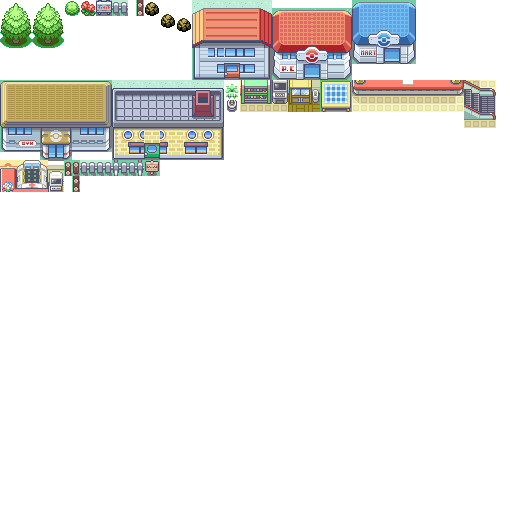
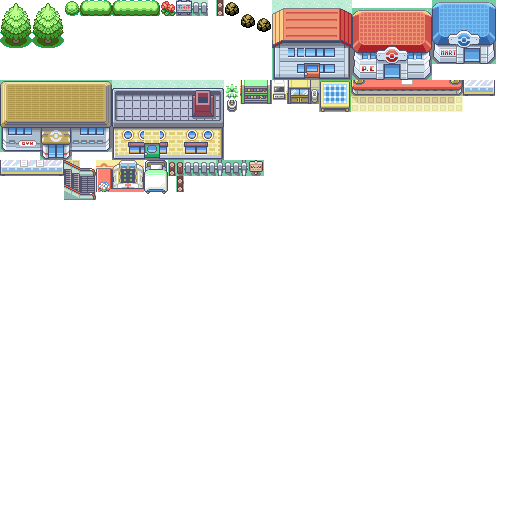
Revisa objetos e organiza vegetação e entradas em todas as regiões

Changed region(s): [[0.1562, 0.0, 0.9688, 0.25], [0.0, 0.3125, 0.5312, 0.4062]]

diff --git a/src/world/composicao-natural.js b/src/world/composicao-natural.js
@@ -1,0 +1,63 @@
+import{TILE,SOLID}from'./tiles.js';
+import{KINDS}from'./objects.js';
+
+// A mesma composição vale para todas as regiões: massas vegetais, acostamentos
+// livres e clareiras conectadas. Nunca reorganiza moradores, itens ou mecanismos.
+const VERDE=new Set([TILE.GRASS,TILE.GRASS2,TILE.TALL,TILE.FLOWERS,TILE.DARK,TILE.GOLD,TILE.SAND,TILE.WETSAND,TILE.CAATINGA,TILE.TALLDRY,TILE.DUNE,TILE.SNOW,TILE.SNOWFIELD,TILE.TALLSNOW,TILE.BASALT,TILE.ASH,TILE.OBSIDIAN]);
+const VIA=new Set([TILE.PATH,TILE.PLAZA,TILE.COURT,TILE.STAIRS,TILE.BRIDGE,TILE.BRIDGEV,TILE.DOCK,TILE.MOSAIC]);
+const NATURAL=/^(tree2?|pine2?|pineT|autumn|bigtree|bigautumn|ipe|paineira|jequitiba|juazeiro|umbu|palm|palmSmall|palmeira|coqueiro|araucaria|mangue|bambu|mandacaru|xiquexique|cactus|cactoBarril|arbustoSeco|pinheiroAlto|pinheiroNevado|arvoreVento|roundbush|cone|moita|moitaNeve|bush|boulder2?|grayrock|stump)$/;
+export function* comporNatureza(S,P,ocupar){
+ if(S.J.temaVisual)return;
+ const W=S.W,H=S.J.outdoorH??S.H,[rx,ry,rw,rh]=P.rect??[0,0,W,H],grupos=new Map(),retirar=new Set();
+ for(const o of[...S.placed,...S.novos]){
+  const K=KINDS[o.kind],x=o.tx??o.x,y=o.ty??o.y;
+  if((o.parte??0)!==P.i||y>=H||o.forest||o.id||o.text||o.to||o.berry||K?.strength||K?.fw>3||K?.door!==undefined||!NATURAL.test(o.kind)||!VERDE.has(S.tiles[x+y*W]))continue;
+  if(x<rx||x>=rx+rw||y<ry||y>=ry+rh)continue;
+  const gx=Math.floor(x/12)*12,gy=Math.floor(y/10)*10,k=gx+':'+gy;
+  if(!grupos.has(k))grupos.set(k,{x:gx,y:gy,objs:[]});grupos.get(k).objs.push(o);retirar.add(o);
+ }
+ const candidatos=new Set([...retirar].flatMap(o=>o.cells??[])),ocupados=new Set();
+ S.placed=S.placed.filter(o=>!retirar.has(o));S.novos=S.novos.filter(o=>!retirar.has(o));
+ S.objects=S.objects.filter(o=>!retirar.has(o));
+ for(const o of[...S.placed,...S.novos])for(const k of o.cells??[])if(candidatos.has(k))ocupados.add(k);
+ for(const k of candidatos)if(!ocupados.has(k))S.block[k]=0;
+ if(S.instalado)for(const o of retirar){o.retiradoCenario=true;(S.retiradosCenario??=new Set()).add(o);}
+ const at=(x,y)=>x<0||y<0||x>=W||y>=H?TILE.VOID:S.tiles[x+y*W];
+ const livre=(x,y,K)=>{
+  if(x<rx||y<ry||x+K.fw>rx+rw||y+K.fh>Math.min(H,ry+rh))return false;
+  for(let j=0;j<K.fh;j++)for(let i=0;i<K.fw;i++){
+   const X=x+i,Y=y+j,k=X+Y*W;
+   if(!VERDE.has(at(X,Y))||SOLID.has(at(X,Y))||S.block[k]||S.nearSpot.has(k))return false;
+   for(let b=-2;b<=2;b++)for(let a=-2;a<=2;a++)if(VIA.has(at(X+a,Y+b))||S.nearSpot.has(X+a+(Y+b)*W))return false;
+  }
+  return true;
+ };
+ let instalados=0;
+ for(const g of grupos.values()){
+  // A faixa externa permanece atravessável: dois bosquetes vizinhos não se
+  // unem numa parede nova nem fecham um acesso que já existia.
+  const pontos=[],variacao=((g.x*73856093)^(g.y*19349663))>>>0;
+  const cx=g.x+4+variacao%4,cy=g.y+4+(variacao>>>3)%3;
+  for(let y=g.y+2;y<g.y+8;y++)for(let x=g.x+2;x<g.x+10;x++){
+   let d=20;for(let r=1;r<=6;r++)if(VIA.has(at(x+r,y))||VIA.has(at(x-r,y))||VIA.has(at(x,y+r))||VIA.has(at(x,y-r))){d=r;break;}
+   pontos.push({x,y,peso:(x-cx)**2+(y-cy)**2+(d<3?100:Math.abs(d-5)*.3)});
+  }
+  pontos.sort((a,b)=>a.peso-b.peso||a.y-b.y||a.x-b.x);
+  const baixa=o=>/bush|cone|moita|boulder|grayrock|stump/.test(o.kind)?1:0;
+  g.objs.sort((a,b)=>baixa(a)-baixa(b)||(KINDS[b.kind].fw-KINDS[a.kind].fw)||(a.ty??a.y)-(b.ty??b.y)||(a.tx??a.x)-(b.tx??b.x));
+  let altas=0,baixas=0;const usados=[];
+  for(const o of g.objs){
+   const baixaAtual=baixa(o);
+   if(baixaAtual?baixas>=2:altas>=3)continue;
+   // Sebes compridas pertencem aos jardins. No campo, o mesmo volume vira
+   // um arbusto inteiro na borda do bosquete, sem fileiras de cápsulas verdes.
+   const kind=/^(roundbush|cone)$/.test(o.kind)?'bush':o.kind,K=KINDS[kind];
+   const p=pontos.find(p=>p.x+K.fw<=g.x+10&&p.y+K.fh<=g.y+8&&livre(p.x,p.y,K)&&usados.every(q=>Math.abs(p.x-q.x)+Math.abs(p.y-q.y)>=2));
+   if(!p)continue;
+   const n={...o,kind,x:p.x,y:p.y,tx:undefined,ty:undefined,cells:[],sprite:undefined,retiradoCenario:false,composicaoNatural:true};
+   if(ocupar(S,n)){S.novos.push(n);instalados++;usados.push(p);if(baixaAtual)baixas++;else altas++;}
+  }
+  yield;
+ }
+ (S.composicaoNatural??=[]).push({regiao:P.id,originais:retirar.size,agrupados:instalados});
+}

diff --git a/src/visual2d/firered/objetos.js b/src/visual2d/firered/objetos.js
@@ -3,6 +3,9 @@ import { KINDS } from '../../world/objects.js';
 
 export function tipoObjeto(o){
  const k=o.kind,K=KINDS[k];
+ if(/^pine2?$/.test(k))return 'arvore';
+ if(k==='lamp'||k==='fenceV'||/^wfence/.test(k))return 'nativo';
+ if(k==='roundbush'||k==='cone')return (o.fw??K?.fw??1)>2?'arbusto_largo':'arbusto_medio';
  // Mantém a identidade das peças sem equivalente no banco geral: palmeira não vira moita,
  // caixa não vira placa, sofá não vira cerca e utensílios não viram bordas de água.
  if(/palm|palmeira|coqueiro|pine|pinheiro|araucaria|cact|mandacaru|xiquexique|mangue|oran|pecha/i.test(k)||K?.berry)return 'nativo';
@@ -11,6 +14,8 @@ export function tipoObjeto(o){
  if(/shelf|armario|estante|prateleira|mesa|table|desk|tv/i.test(k)&&(K?.fw??1)<2)return 'nativo';
  if(/geladeira|gondola|expositor|mail|radio|skull|ossada/i.test(k))return 'nativo';
  if(k==='maquinaCura')return 'maquina';
+ if(k==='counterTroca')return 'balcao_pequeno';
+ if(k==='counterLoja'||k==='counter')return 'balcao_loja';
  if(K?.glow||/menhir|column|obelisk|torch|stump/i.test(k))return 'nativo';
  if(k==='escadaRolante')return 'escada';
  if(k==='balltable')return 'nativo';
@@ -48,8 +53,7 @@ export function montarObjeto(imagem,frames,o){
  const cv=document.createElement('canvas');cv.width=w;cv.height=Math.max(f[3],(o.fh??K?.fh??1)*16);
  const c=cv.getContext('2d');c.imageSmoothingEnabled=false;
  // Copas são objetos inteiros. Repetir suas colunas produz duas árvores cortadas.
- if(door===null&&['arvore','arvore_grande'].includes(nome)){c.drawImage(imagem,...f,Math.floor((w-f[2])/2),cv.height-f[3],f[2],f[3]);const tex=PIXI.Texture.from(cv);tex.source.scaleMode='nearest';return{tex,canvas:cv,nome};}
- if(door===null&&['maquina','pc','tv','prateleira','vaso','mesa','cama','escada'].includes(nome)){cv.width=f[2];c.drawImage(imagem,...f,0,cv.height-f[3],f[2],f[3]);const tex=PIXI.Texture.from(cv);tex.source.scaleMode='nearest';return{tex,canvas:cv,nome};}
+ if(door===null&&['arvore','arvore_grande','arbusto_medio','arbusto_largo','balcao_pequeno','balcao_loja','maquina','pc','tv','prateleira','vaso','mesa','cama','escada'].includes(nome)){cv.width=f[2];c.imageSmoothingEnabled=false;c.drawImage(imagem,...f,0,cv.height-f[3],f[2],f[3]);const tex=PIXI.Texture.from(cv);tex.source.scaleMode='nearest';return{tex,canvas:cv,nome};}
  const esquerda=door===null?-1:door-centro;
  if(door!==null&&esquerda>=0&&esquerda+src<=fw){
   const jardim=frames.arbusto;

diff --git a/src/world/ligacoes-piso.js b/src/world/ligacoes-piso.js
@@ -1,0 +1,35 @@
+import{TILE,SOLID}from'./tiles.js';
+const CAMINHO=new Set([TILE.PATH,TILE.SAND,TILE.WETSAND]);
+const PATIO=new Set([TILE.MOSAIC,TILE.PLAZA,TILE.COURT,TILE.OLDSTONE,TILE.TEMPLEFLOOR]);
+const REPINTAR=new Set([TILE.GRASS,TILE.GRASS2,TILE.TALL,TILE.FLOWERS,TILE.DARK,TILE.GOLD]);
+// Liga o patamar das entradas às trilhas próximas, em todas as regiões.
+// Só pinta chão já atravessável; não abre muros, rios, objetos nem barreiras.
+export function ligarPisos(S,P){
+ if(S.J.temaVisual)return;
+ const W=S.W,H=S.J.outdoorH??S.H,[rx,ry,rw,rh]=P.rect??[0,0,W,H];
+ for(const a of S.J.warps??[]){
+  if(a.y>=H||a.x<rx||a.x>=rx+rw||a.y<ry||a.y>=ry+rh||a.dir&&a.dir!=='up')continue;
+  const x=Math.floor(a.x),y=Math.floor(a.y)+2,t=S.tiles[x+y*W],id=x+y*W;
+  if(!PATIO.has(t)&&!REPINTAR.has(t)||S.pisosLigados?.has(id))continue;
+  const fila=[id],pais=new Map([[id,null]]);let fim=null;
+  for(let i=0;i<fila.length;i++){
+   const k=fila[i],X=k%W,Y=Math.floor(k/W);
+   if(k!==id&&CAMINHO.has(S.tiles[k])){fim=k;break;}
+   for(const[dx,dy]of[[0,1],[-1,0],[1,0],[0,-1]]){
+    const nx=X+dx,ny=Y+dy,n=nx+ny*W;
+    const t=S.tiles[n],piso=CAMINHO.has(t)||PATIO.has(t)||REPINTAR.has(t)||t===TILE.STAIRS;
+    if(nx<rx||nx>=rx+rw||ny<ry||ny>=Math.min(H,ry+rh)||Math.abs(nx-x)+Math.abs(ny-y)>12||pais.has(n)||S.block[n]||SOLID.has(t)||!piso)continue;
+    pais.set(n,k);fila.push(n);
+   }
+  }
+  if(fim===null)continue;
+  const piso=S.tiles[fim];let n=fim;
+  while(n!==null){const X=n%W,Y=Math.floor(n/W);for(let dy=-1;dy<=1;dy++)for(let dx=-1;dx<=1;dx++){
+   const k=X+dx+(Y+dy)*W;
+   if(X+dx<rx||X+dx>=rx+rw||Y+dy<ry||Y+dy>=Math.min(H,ry+rh)||S.block[k])continue;
+   if(REPINTAR.has(S.tiles[k]))S.tiles[k]=piso;
+   S.nearSpot.add(k);
+  }n=pais.get(n);}
+  (S.pisosLigados??=new Set()).add(id);
+ }
+}

diff --git a/src/world/map.js b/src/world/map.js
@@ -66,6 +66,7 @@ export class GameMap {
     this.R = R; this.S = S; this.id = id; this.nome = R.nome;
     this.w = R.w; this.h = R.h; this.tiles = S.tiles; this.block = S.block;
     this.objects = [...S.placed, ...S.novos]; S.novos.length = 0;
+    S.retiradosCenario?.clear(); // na abertura, os objetos retirados nem chegaram a ser instalados
     this.decorDefs = S.decor; this.peopleDefs = S.people; this.petDefs = S.pets;
     this.outdoorH = R.outdoorH ?? this.h; this.areas = R.areas;if(!temporario)AREAS = listaAreas(R.areas);
     this.signs = R.signs ?? []; this.items = R.items ?? []; this.regioes = R.regioes ?? [];
@@ -77,6 +78,7 @@ export class GameMap {
     for (const d of this.decorDefs) { const c = this.#chunkAt(d.x, d.y); if (c) c.decor.push(d); }
     this.cellObj = new Map();
     this.#instalar(this.objects);
+    S.instalado=true;
     this.#indices();
     // regiões ainda não montadas: setores marcados (uma consulta a um bloco delas monta na hora)
     this.secPend = new Uint8Array(this.CW * this.CHh); this.nPend = 0; this.construindo = null;
@@ -142,6 +144,12 @@ export class GameMap {
   }
   #pronta(P) {
     this.#entradasEscada();
+    if(this.S.retiradosCenario?.size){
+      const retirados=this.S.retiradosCenario;
+      this.objects=this.objects.filter(o=>!retirados.has(o));
+      for(const o of retirados){const c=this.#chunkAt((o.tx??o.x)+Math.floor(o.fw/2),(o.ty??o.y)+o.fh-1);if(c)c.objs=c.objs.filter(p=>p!==o);for(const k of o.cells??[])if(this.cellObj.get(k)===o)this.cellObj.delete(k);o.sprite?.destroy();o.sprite=null;}
+      retirados.clear();
+    }
     if (this.construindo?.P === P) this.construindo = null;
     for (const r of [P.rect, P.faixa]) if (r) this.#marcarSetores(r, 0);
     this.nPend--;

diff --git a/src/visual2d/firered/pisos.js b/src/visual2d/firered/pisos.js
@@ -1,11 +1,20 @@
 // Peças pequenas para os terrenos que não existem no banco original carregado.
 // Paleta curta, pixel inteiro e um único atlas de 256 × 16, compartilhado por setor.
-export function pisosUtilitarios(){
+export function pisosUtilitarios(exterior=null){
  const w=256,data=new Uint8ClampedArray(w*16*4),cor=(x,y,c)=>{const k=(x+y*w)*4;data[k]=c>>16;data[k+1]=c>>8&255;data[k+2]=c&255;data[k+3]=255;};
  for(let id=0;id<4;id++)for(let y=0;y<16;y++)for(let x=0;x<16;x++){
   let c;if(id<2){const p=id===0?y:x;c=p%4===3?0x806443:p%4===0?0xd5bd8b:0xbda173;if((x===2||x===13)&&(y===2||y===10))c=0x675c4b;}
   else{const a=id===2?x:y,b=id===2?y:x;c=0xafa58b;if(b%8<3)c=0x806443;if(a===3||a===12)c=0x5c6266;if(a===4||a===11)c=0xd3d9d6;}
   cor(id*16+x,y,c);
+ }
+ // Nove bordas da estrada original, na paleta da areia. Reusa os espaços
+ // livres deste mesmo atlas: nenhuma textura ou malha adicional por setor.
+ const ids=[0x0d3,0x0d4,0x0d5,0x0db,0x0dc,0x0dd,0x0e3,0x0e4,0x0e5];
+ for(let n=0;n<9;n++)for(let y=0;y<16;y++)for(let x=0;x<16;x++){
+  if(!exterior){cor((n+4)*16+x,y,0xf6edab);continue;}
+  const id=ids[n],k=(((id>>4)*16+y)*exterior.w+(id%16)*16+x)*4,[r,g,b]=exterior.data.subarray(k,k+3);
+  const c=g>r+12?(r<<16|g<<8|b):(r+g+b)/3>205?0xfbf1ac:(r+g+b)/3>165?0xe4d18b:0xb8a86e;
+  cor((n+4)*16+x,y,c);
  }
  return{w,data};
 }

diff --git a/src/visual2d/firered/terreno.js b/src/visual2d/firered/terreno.js
@@ -20,6 +20,9 @@ export function escolherBloco(map,t,x,y){
  if(t===TILE.VOID)return ['exterior',0];
  const sala=map.interiorAt(x*16+8,y*16+8);
  if(y>=(map.outdoorH??map.h)&&!sala)return ['exterior',0];
+ // No continente, a mata já tem árvores inteiras por setor. Pintá-las também
+ // no chão duplicava copas e deixava fragmentos de tronco entre os objetos.
+ if(t===TILE.FOREST&&map.S?.florestaPorSetor)return ['exterior',0x001];
  if(t===TILE.FOREST||t===TILE.ROOTS)return ['exterior',[[0x00e,0x00f],[0x01e,0x01f],[0x024,0x025]][((y%3)+3)%3][x&1]];
  if(t===TILE.CLIMB)return ['caverna',0x283];
  if(t===TILE.MUD||t===TILE.MANGMUD)return ['lama',0x1d9];
@@ -53,7 +56,7 @@ export function escolherBloco(map,t,x,y){
   const urbana=t!==TILE.PATH||map.areaAt(x*16+8,y*16+8)?.biome==='vila';
   return ['exterior',borda(map,x,y,(q,xx,yy)=>CAMINHO.has(pisoPraca(map,q,xx,yy)),urbana?PRACA:ESTRADA)];
  }
- if(AREIA.has(t))return ['exterior',[0x125,0x12d,0x12e][ix(x,y)%3]];
+ if(AREIA.has(t))return ['pisos',borda(map,x,y,q=>![TILE.GRASS,TILE.GRASS2,TILE.TALL,TILE.FLOWERS,TILE.DARK,TILE.FOREST,TILE.ROOTS].includes(q),[[4,5,6],[7,8,9],[10,11,12]])];
  if(CAVERNA.has(t))return ['caverna',ix(x,y)%7===0?0x289:0x281];
  if(GELO.has(t))return ['gelo',0x001];
  if(t===TILE.FLOWERS)return ['exterior',ix(x,y)%4===0?0x004:0x001];

diff --git a/src/visual2d/firered/index.js b/src/visual2d/firered/index.js
@@ -37,7 +37,7 @@ export class VisualFireRed{
    if(exterior.data[k]===139&&exterior.data[k+1]===164&&exterior.data[k+2]===255)exterior.data.set([213,197,106],k);
   }
   exterior.canvas.getContext('2d').putImageData(new ImageData(exterior.data,exterior.w,exterior.canvas.height),0,0);
-  const piso=pisosUtilitarios();piso.canvas=document.createElement('canvas');piso.canvas.width=piso.w;piso.canvas.height=16;piso.canvas.getContext('2d').putImageData(new ImageData(piso.data,piso.w,16),0,0);this.bancos.pisos=piso;
+  const piso=pisosUtilitarios(this.bancos.exterior);piso.canvas=document.createElement('canvas');piso.canvas.width=piso.w;piso.canvas.height=16;piso.canvas.getContext('2d').putImageData(new ImageData(piso.data,piso.w,16),0,0);this.bancos.pisos=piso;
   // Neve usa os mesmos pixels e uma paleta curta de gelo, sem textura pintada.
   const gelo={...this.bancos.exterior,data:new Uint8ClampedArray(this.bancos.exterior.data)};
   for(let i=0;i<gelo.data.length;i+=4){const k=(gelo.data[i]+gelo.data[i+1]+gelo.data[i+2])/3;gelo.data[i]=k<100?112:k<170?184:240;gelo.data[i+1]=k<100?152:k<170?208:248;gelo.data[i+2]=k<100?192:k<170?232:248;}

diff --git a/src/world/build.js b/src/world/build.js
@@ -1,4 +1,6 @@
 import { comporCoral } from './coral-piloto.js';
+import {comporNatureza} from './composicao-natural.js';
+import {ligarPisos} from './ligacoes-piso.js';
 import { organizarPostes } from './organizar-postes.js';
 import { comporPilotoVisual } from './piloto-visual.js';
 import { recomporNucleos, vestirPaisagem, criarRecantos } from './paisagem.js';
@@ -244,6 +246,8 @@ export function* passosParte(S, P) {
   comporPilotoVisual(S, P);
   organizarPostes(S, P);
   comporCoral(S, P);
+  ligarPisos(S,P);
+  for(const _ of comporNatureza(S,P,occupy))yield;
   P.pronta = true;
 }
 export function montarParte(S, P) { for (const _ of passosParte(S, P)) { /* tudo de uma vez */ } }

diff --git a/tools/firered/preparar.py b/tools/firered/preparar.py
@@ -65,6 +65,8 @@ def por(nome,rows,banco='exterior'):objetos[nome]=matriz(rows,banco)
 por('arvore',[[0x00e,0x00f],[0x01e,0x01f],[0x024,0x025]])
 objetos['arvore_grande']=objetos['arvore'].copy()
 por('arbusto',[[0x005]])
+por('arbusto_medio',[[0x13d,0x13f]])
+por('arbusto_largo',[[0x13d,0x13e,0x13f]])
 por('flores',[[0x004]])
 por('placa',[[0x002]])
 por('cerca',[[0x284]])
@@ -95,20 +97,45 @@ for y in range(20,32):
  a,b=(4,12)if y in[20,30]else(5,11)if y==31 else(3,13)
  for x in range(a,b):im.putpixel((x,y),original.getpixel((x,y)))
 grama=set(c for i in[0x001,0x008,0x009,0x010,0x011]for c in ts['exterior'][i].get_flattened_data())
-for nome in ['arvore','arvore_grande','arbusto','flores','placa']:
+for nome in ['arvore','arvore_grande','arbusto','arbusto_medio','arbusto_largo','flores','placa']:
  limpar_borda(objetos[nome],grama)
 por('prateleira',[[0x2cb,0x2cc],[0x2cd,0x2ce]],'centro')
-por('pc',[[0x062],[0x295]],'centro')
+por('pc',[[0x287],[0x28f]],'interior')
 por('tv',[[0x036,0x037],[0x03e,0x03f]],'interior')
 por('mesa',[[0x04c,0x04d],[0x054,0x055]],'interior')
 por('balcao',[[0x2b9,0x2bc,0x2bc,0x298,0x2bc,0x2bc,0x2bd],[0x2a3,0x2b7,0x2b7,0x2b7,0x2b7,0x2b7,0x2bf]],'centro')
+# O posto de trocas tem duas colunas: recebe o móvel azul completo, com as
+# quatro quinas originais, em vez de duas pontas do balcão grande da enfermeira.
+ts['loja_objetos']=tileset('building','mart')
+por('balcao_pequeno',[[0x2b0,0x2b2]],'loja_objetos')
+por('balcao_loja',[[0x2b0,0x2b1,0x2b1,0x2b2]],'loja_objetos')
 por('escada',[[0x2d0,0x2d1],[0x2d8,0x2d9],[0x2e0,0x2e1]],'centro')
 por('maquina',[[0x2a9,0x2aa,0x2ab],[0x2b1,0x2b2,0x2b3]],'centro')
-por('cama',[[0x287],[0x28f]],'interior')
+# Cama completa do quarto original: cabeceira, colchão e pé. 0x287/0x28f
+# são o computador; usar essas peças aqui trocava a identidade do móvel.
+por('cama',[[0x283,0x284,0x285],[0x28b,0x28c,0x28d],[0x293,0x294,0x295]],'interior')
+limpar_borda(objetos['cama'],set(c for i in[0x001,0x008,0x009]for c in ts['interior'][i].get_flattened_data()))
+objetos['cama']=objetos['cama'].crop(objetos['cama'].getbbox())
 por('poste',[[0x0e8],[0x0f1]])
 por('banco',[[0x284,0x284]])
 por('borda_pedra',[[0x135,0x136]])
 por('bau',[[0x003]])
+# Remove somente quadrantes que são cópias exatas de piso. As bordas do móvel
+# e suas cores internas ficam intactas, inclusive os pés e o contorno do balcão.
+pisos=set()
+for banco,ids in [('interior',[0x001,0x008,0x009,0x059,0x081]),('centro',[0x281,0x2b7])]:
+ for i in ids:
+  for y in[0,8]:
+   for x in[0,8]:pisos.add(ts[banco][i].crop((x,y,x+8,y+8)).tobytes())
+for nome in['prateleira','pc','tv','mesa','escada','maquina']:
+ im=objetos[nome]
+ for y in range(0,im.height-7,8):
+  for x in range(0,im.width-7,8):
+   if im.crop((x,y,x+8,y+8)).tobytes() in pisos:im.paste((0,0,0,0),(x,y,x+8,y+8))
+# O computador original fica encostado à parede. Essa parede não acompanha
+# o equipamento quando ele é usado em outra posição ou em outra sala.
+limpar_borda(objetos['pc'],set(c for i in[0x020,0x028]for c in ts['interior'][i].get_flattened_data()))
+objetos['pc']=objetos['pc'].crop(objetos['pc'].getbbox())
 # Pedras do cenário mantêm a escala original. A pedra de Força ampliada parecia
 # uma esfera gigante, além de comunicar uma interação que esses enfeites não têm.
 for nome,arquivo,tamanho in [('pedra','rock_smash_rock.png',16),('rochedo','rock_smash_rock.png',32)]:
@@ -126,8 +153,8 @@ for nome,im in objetos.items():
  if y+im.height>512:raise ValueError('Atlas de objetos cheio')
  atlas.paste(im,(x,y));frames[nome]=[x,y,im.width,im.height];x+=im.width;linha=max(linha,im.height)
 atlas.save(SAIDA/'objetos.png',optimize=True)
-fontes={str(p.relative_to(root)):hashlib.sha256(p.read_bytes()).hexdigest() for p in sorted(raw.rglob('*')) if p.is_file() and any(str(p.relative_to(raw)).startswith(('primary/'+v[0], 'secondary/'+v[1])) for v in BANCOS.values())}
-J={'origem':json.loads((root/'origem.json').read_text()),'bloco':16,'bancos':{k:{'arquivo':k+'.png','blocos':len(v)}for k,v in ts.items()},'objetos':frames,'fontes':{**fontes,**{'misc/'+p.name:hashlib.sha256(p.read_bytes()).hexdigest()for p in sorted((root/'misc').glob('*.png'))}}}
+fontes={str(p.relative_to(root)):hashlib.sha256(p.read_bytes()).hexdigest() for p in sorted(raw.rglob('*')) if p.is_file() and (str(p.relative_to(raw)).startswith('secondary/mart/') or any(str(p.relative_to(raw)).startswith(('primary/'+v[0], 'secondary/'+v[1])) for v in BANCOS.values()))}
+J={'origem':json.loads((root/'origem.json').read_text()),'bloco':16,'bancos':{k:{'arquivo':k+'.png','blocos':len(ts[k])}for k in BANCOS},'objetos':frames,'fontes':{**fontes,**{'misc/'+p.name:hashlib.sha256(p.read_bytes()).hexdigest()for p in sorted((root/'misc').glob('*.png'))}}}
 J['versaoObjetos']=hashlib.sha256((SAIDA/'objetos.png').read_bytes()).hexdigest()[:16]
 (SAIDA/'indice.json').write_text(json.dumps(J,ensure_ascii=False,indent=2)+'\n')
 print('Atlas de terreno e objetos:',SAIDA)
